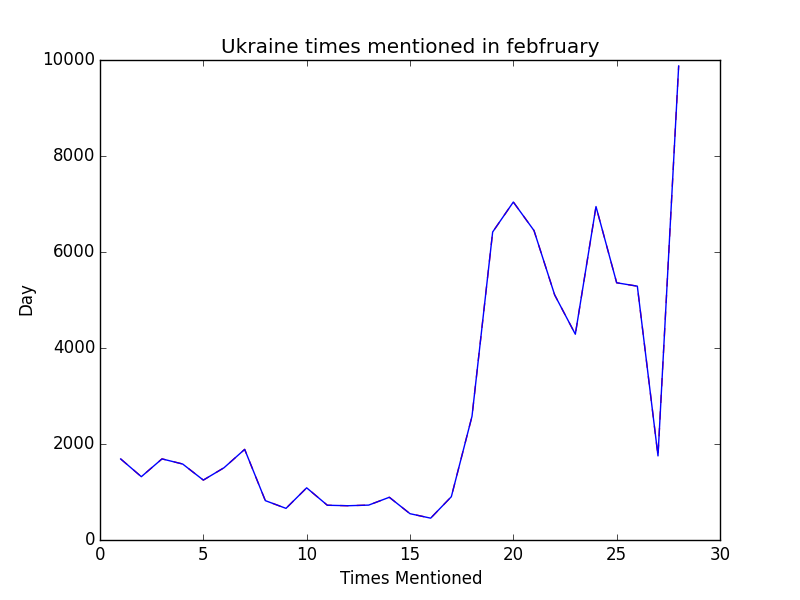
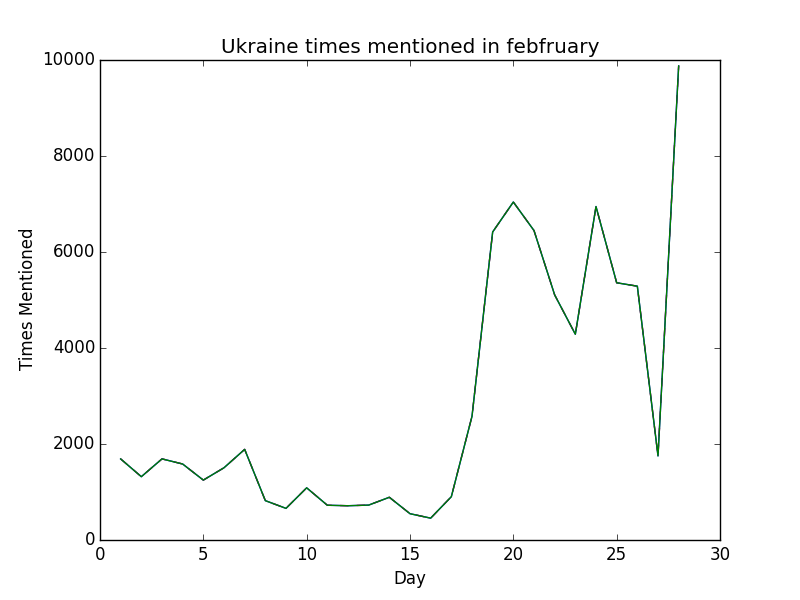
fixed ukraine data

diff --git a/peacehack/process_data.py b/peacehack/process_data.py
@@ -22,7 +22,7 @@ def ukraine():
         result.append(_sum)
 
     plt.plot(days, result)
-    plt.xlabel('Times Mentioned')
-    plt.ylabel('Day')
+    plt.ylabel('Times Mentioned')
+    plt.xlabel('Day')
     plt.title('Ukraine times mentioned in febfruary')
     plt.savefig('ukraine.png')
